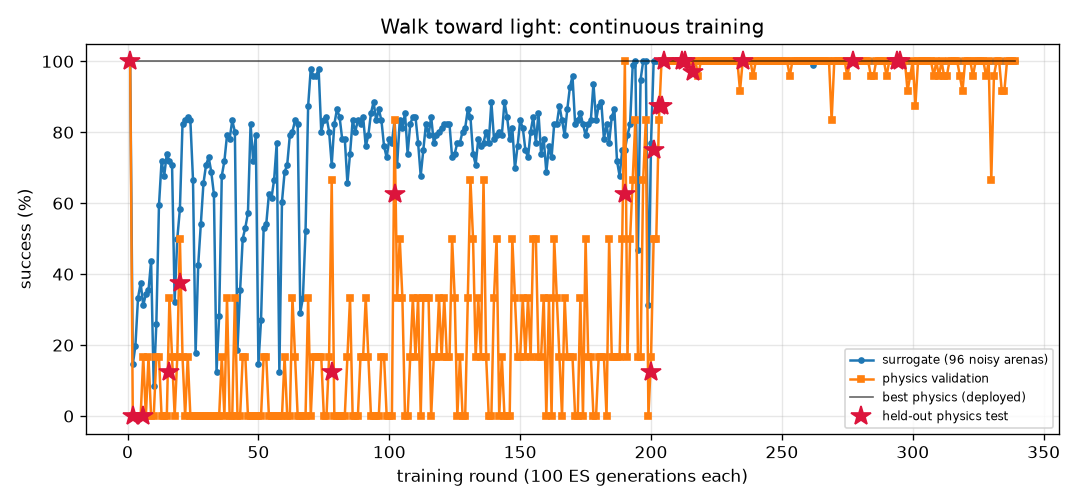
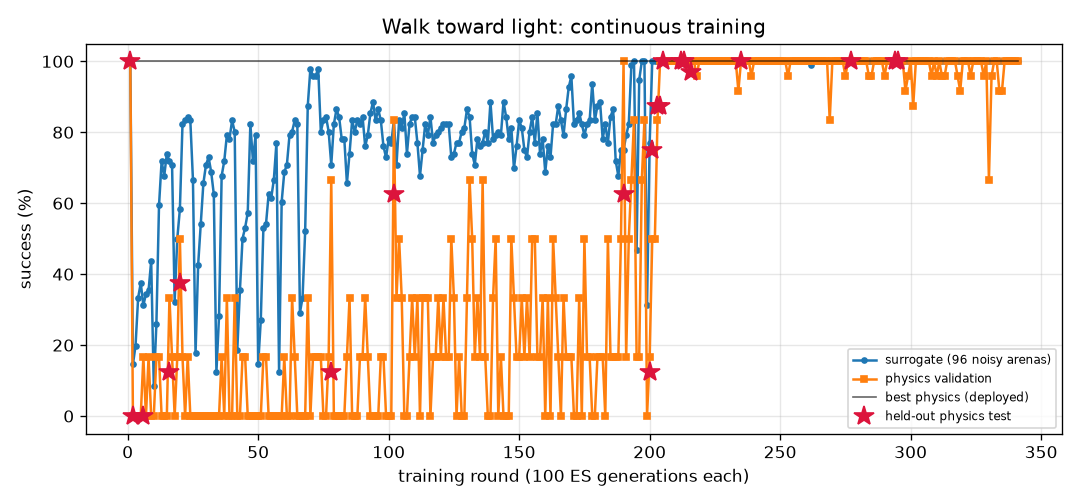
FlyLab: continuous training progress
- walk_forward: optimal, physics val 100% of 24, round 171
- turn: optimal, physics val 100% of 24, round 637
- goto: optimal, physics val 100% of 24, round 156
- odor_seek: optimal, physics val 100% of 24, round 137
- odor_avoid: optimal, physics val 100% of 24, round 609
- light_seek: optimal, physics val 100% of 24, round 341
- light_avoid: optimal, physics val 100% of 24, round 343

diff --git a/projects/09_flylab/training/goto/REPORT.md b/projects/09_flylab/training/goto/REPORT.md
@@ -1,14 +1,14 @@
 # Go to a location (`goto`) — training report
 
-*Auto-generated by `train_brains.py`, last updated 2026-10-24T21:33:08.*
+*Auto-generated by `train_brains.py`, last updated 2026-10-25T01:13:06.*
 
 ![curve](curve.png)
 
 | | |
 |---|---|
-| rounds | 154 |
-| ES generations | 15400 |
-| physics runs | 3582 |
+| rounds | 156 |
+| ES generations | 15600 |
+| physics runs | 3630 |
 | status | **optimal** |
 | best brain | round 80: physics validation **100%** on 24 arenas, surrogate 100% |
 | held-out physics test | **100%** on 32 unseen arenas (95% CI 89%-100%) (errors: [0.36, 0.41, 0.3, 0.45, 0.32, 0.33, 0.33, 0.31, 0.35, 0.36, 0.39, 0.36, 0.28, 0.31, 0.4, 0.39, 0.34, 0.39, 0.3, 0.34, 0.36, 0.36, 0.44, 0.34, 0.3, 0.33, 0.4, 0.33, 0.29, 0.43, 0.43, 0.39]) |
@@ -17,8 +17,6 @@ Physics error per arena: mm from target at the end (< 1.5 and standing still = s
 
 | round | level | gens | sigma | surrogate | physics val | val errors | test | note |
 |---:|---:|---:|---:|---:|---:|---|---:|---|
-| 115 | 3 | 11500 | 0.024 | 100% | 100% | [0.42, 0.42, 0.27, 0.31, 0.29, 0.3, 0.39, 0.38, 0.35, 0.29, 0.28, 0.29, 0.37, 0.32, 0.39, 0.38, 0.43, 0.3, 0.27, 0.35, 0.35, 0.28, 0.4, 0.31] |  |  |
-| 116 | 3 | 11600 | 0.024 | 99% | 100% | [0.71, 0.72, 0.59, 0.6, 0.56, 0.59, 0.71, 0.66, 0.68, 0.56, 0.53, 0.57, 0.69, 0.59, 0.65, 0.65, 0.75, 0.64, 0.53, 0.65, 0.61, 0.55, 0.75, 0.58] |  | restart from best |
 | 117 | 3 | 11700 | 0.024 | 99% | 100% | [0.56, 0.54, 0.44, 0.51, 0.42, 0.48, 0.5, 0.5, 0.57, 0.43, 0.43, 0.5, 0.56, 0.46, 0.47, 0.45, 0.56, 0.49, 0.41, 0.54, 0.44, 0.42, 0.59, 0.53] |  |  |
 | 118 | 3 | 11800 | 0.025 | 100% | 100% | [0.5, 0.51, 0.38, 0.49, 0.38, 0.47, 0.45, 0.36, 0.54, 0.41, 0.43, 0.47, 0.53, 0.44, 0.46, 0.43, 0.48, 0.45, 0.37, 0.51, 0.42, 0.39, 0.54, 0.53] |  |  |
 | 119 | 3 | 11900 | 0.024 | 99% | 100% | [0.65, 0.62, 0.46, 0.57, 0.48, 0.55, 0.6, 0.5, 0.67, 0.48, 0.54, 0.56, 0.66, 0.52, 0.54, 0.54, 0.69, 0.56, 0.48, 0.65, 0.52, 0.49, 0.69, 0.6] |  |  |
@@ -57,3 +55,5 @@ Physics error per arena: mm from target at the end (< 1.5 and standing still = s
 | 152 | 3 | 15200 | 0.025 | 99% | 100% | [0.55, 0.53, 0.37, 0.42, 0.39, 0.41, 0.54, 0.44, 0.47, 0.39, 0.37, 0.43, 0.49, 0.39, 0.42, 0.47, 0.54, 0.44, 0.38, 0.47, 0.44, 0.39, 0.53, 0.41] |  | restart from best |
 | 153 | 3 | 15300 | 0.024 | 100% | 100% | [0.5, 0.47, 0.37, 0.38, 0.35, 0.35, 0.52, 0.38, 0.39, 0.37, 0.35, 0.37, 0.42, 0.34, 0.36, 0.43, 0.47, 0.39, 0.36, 0.42, 0.4, 0.37, 0.44, 0.37] |  |  |
 | 154 | 3 | 15400 | 0.024 | 100% | 100% | [0.41, 0.49, 0.43, 0.34, 0.37, 0.36, 0.41, 0.4, 0.37, 0.34, 0.34, 0.33, 0.37, 0.38, 0.41, 0.44, 0.4, 0.31, 0.33, 0.36, 0.43, 0.31, 0.38, 0.35] |  |  |
+| 155 | 3 | 15500 | 0.024 | 100% | 100% | [0.64, 0.67, 0.63, 0.49, 0.5, 0.51, 0.62, 0.56, 0.54, 0.48, 0.5, 0.48, 0.56, 0.52, 0.6, 0.6, 0.6, 0.49, 0.47, 0.52, 0.59, 0.5, 0.58, 0.49] |  |  |
+| 156 | 3 | 15600 | 0.024 | 99% | 100% | [0.62, 0.52, 0.52, 0.44, 0.39, 0.41, 0.57, 0.55, 0.46, 0.41, 0.4, 0.43, 0.51, 0.36, 0.43, 0.44, 0.57, 0.5, 0.41, 0.5, 0.42, 0.41, 0.53, 0.42] |  | restart from best |

diff --git a/projects/09_flylab/training/light_seek/REPORT.md b/projects/09_flylab/training/light_seek/REPORT.md
@@ -1,14 +1,14 @@
 # Walk toward light (`light_seek`) — training report
 
-*Auto-generated by `train_brains.py`, last updated 2026-10-25T00:36:19.*
+*Auto-generated by `train_brains.py`, last updated 2026-10-25T01:03:02.*
 
 ![curve](curve.png)
 
 | | |
 |---|---|
-| rounds | 339 |
-| ES generations | 33900 |
-| physics runs | 4984 |
+| rounds | 341 |
+| ES generations | 34100 |
+| physics runs | 5032 |
 | status | **optimal** |
 | best brain | round 295: physics validation **100%** on 24 arenas, surrogate 100% |
 | held-out physics test | **100%** on 32 unseen arenas (95% CI 89%-100%) (errors: [0.58, 0.62, 0.61, 0.63, 0.65, 0.65, 0.73, 0.55, 0.64, 0.59, 0.59, 0.58, 0.69, 0.61, 0.59, 0.6, 0.6, 0.63, 0.59, 0.64, 0.61, 1.11, 0.62, 0.58, 0.58, 0.58, 0.67, 0.63, 0.58, 0.66, 0.67, 0.59]) |
@@ -17,8 +17,6 @@ Physics error per arena: mm from target at the end (< 1.5 and standing still = s
 
 | round | level | gens | sigma | surrogate | physics val | val errors | test | note |
 |---:|---:|---:|---:|---:|---:|---|---:|---|
-| 300 | 3 | 30000 | 0.024 | 100% | 100% | [1.21, 0.6, 0.54, 0.56, 0.63, 0.53, 0.57, 0.99, 0.58, 0.58, 0.57, 0.52, 0.67, 0.61, 1.14, 0.61, 0.56, 0.57, 0.55, 0.61, 1.26, 0.59, 0.65, 0.55] |  |  |
-| 301 | 3 | 30100 | 0.024 | 100% | 88% | [1.71, 0.93, 0.7, 0.74, 0.62, 0.94, 0.62, 0.6, 0.74, 0.64, 1.89, 0.61, 0.69, 1.65, 0.7, 0.65, 0.65, 0.73, 0.59, 0.7, 1.43, 0.99, 1.03, 0.99] |  |  |
 | 302 | 3 | 30200 | 0.024 | 100% | 100% | [0.76, 0.79, 0.91, 0.97, 0.82, 0.7, 0.71, 0.78, 0.93, 0.76, 0.79, 0.85, 0.9, 0.79, 0.7, 0.68, 0.71, 0.77, 0.72, 0.69, 0.77, 0.75, 0.85, 0.77] |  |  |
 | 303 | 3 | 30300 | 0.024 | 100% | 100% | [0.74, 0.7, 0.65, 0.65, 0.64, 0.78, 0.75, 0.71, 0.74, 0.69, 0.87, 0.71, 0.77, 0.73, 0.63, 0.7, 0.65, 0.79, 0.67, 0.67, 0.99, 0.71, 0.61, 0.74] |  | restart from best |
 | 304 | 3 | 30400 | 0.024 | 100% | 100% | [0.5, 0.55, 0.56, 0.57, 0.63, 0.93, 0.53, 0.55, 0.56, 0.65, 0.61, 0.54, 0.66, 0.58, 0.51, 0.54, 0.56, 0.54, 0.54, 0.62, 0.56, 0.53, 0.53, 0.94] |  |  |
@@ -57,3 +55,5 @@ Physics error per arena: mm from target at the end (< 1.5 and standing still = s
 | 337 | 3 | 33700 | 0.024 | 100% | 100% | [0.55, 0.5, 0.53, 0.51, 0.7, 0.57, 0.55, 0.58, 0.69, 0.5, 0.58, 0.64, 0.66, 0.49, 0.56, 0.56, 0.59, 0.51, 0.47, 0.7, 0.79, 0.56, 0.54, 0.5] |  |  |
 | 338 | 3 | 33800 | 0.024 | 100% | 100% | [0.55, 0.5, 0.64, 0.92, 0.59, 0.51, 0.57, 0.58, 0.6, 0.57, 0.69, 0.56, 0.5, 0.56, 0.75, 0.57, 0.61, 0.69, 0.58, 0.56, 0.61, 0.63, 0.52, 0.74] |  |  |
 | 339 | 3 | 33900 | 0.024 | 100% | 100% | [0.53, 0.57, 0.65, 0.48, 0.51, 0.5, 0.63, 0.57, 0.63, 0.5, 0.57, 0.95, 0.59, 0.49, 0.53, 0.55, 0.58, 0.5, 0.59, 0.51, 0.53, 0.51, 0.5, 0.51] |  | restart from best |
+| 340 | 3 | 34000 | 0.024 | 100% | 100% | [0.51, 0.53, 0.55, 0.64, 0.53, 0.62, 0.54, 0.54, 1.1, 0.55, 0.68, 0.56, 0.62, 0.56, 0.59, 0.68, 0.67, 0.58, 0.53, 0.54, 0.61, 0.55, 0.59, 0.56] |  |  |
+| 341 | 3 | 34100 | 0.024 | 100% | 100% | [0.61, 0.62, 0.64, 0.65, 0.52, 0.6, 0.53, 0.57, 0.56, 0.51, 0.51, 0.54, 0.63, 0.56, 0.54, 0.54, 0.59, 0.5, 0.56, 0.51, 0.65, 0.61, 0.56, 0.6] |  |  |

diff --git a/projects/09_flylab/training/TRAINING.md b/projects/09_flylab/training/TRAINING.md
@@ -1,6 +1,6 @@
 # FlyLab brains — continuous training log
 
-*Auto-generated by `train_brains.py`, last updated 2026-10-25T00:46:13.*
+*Auto-generated by `train_brains.py`, last updated 2026-10-25T01:13:06.*
 
 Every skill has its own brain and its own training process: surrogate ES rounds, physics validation in MuJoCo, keep-the-best selection, and a held-out physics test that is never used for selection. See each skill's report for its full round-by-round history. Mastery is progressive: passing a level (100% physics validation, >=95% surrogate) doubles the validation and test arena sets; a brain is **optimal** once it holds up at level 3 (>=95% of 24 validation arenas) AND scores >=90% on the 32 held-out test arenas. Test columns show 95% Wilson confidence intervals.
 
@@ -8,8 +8,8 @@ Every skill has its own brain and its own training process: surrogate ES rounds,
 |---|---:|---:|---:|---:|---:|---:|---|
 | [Walk forward](walk_forward/REPORT.md) | 171 | 17100 | 4118 | 100% | 100% of 24 | 100% of 32 (CI 89-100%) | **optimal** |
 | [Turn in place](turn/REPORT.md) | 637 | 63700 | 15534 | 100% | 100% of 24 | 97% of 32 (CI 84-99%) | **optimal** |
-| [Go to a location](goto/REPORT.md) | 154 | 15400 | 3582 | 100% | 100% of 24 | 100% of 32 (CI 89-100%) | **optimal** |
+| [Go to a location](goto/REPORT.md) | 156 | 15600 | 3630 | 100% | 100% of 24 | 100% of 32 (CI 89-100%) | **optimal** |
 | [Find food by smell](odor_seek/REPORT.md) | 137 | 13700 | 2718 | 100% | 100% of 24 | 100% of 32 (CI 89-100%) | **optimal** |
 | [Escape a bad smell](odor_avoid/REPORT.md) | 609 | 60900 | 11922 | 97% | 100% of 24 | 97% of 32 (CI 84-99%) | **optimal** |
-| [Walk toward light](light_seek/REPORT.md) | 339 | 33900 | 4984 | 100% | 100% of 24 | 100% of 32 (CI 89-100%) | **optimal** |
+| [Walk toward light](light_seek/REPORT.md) | 341 | 34100 | 5032 | 100% | 100% of 24 | 100% of 32 (CI 89-100%) | **optimal** |
 | [Hide from light](light_avoid/REPORT.md) | 343 | 34300 | 8504 | 100% | 100% of 24 | 100% of 32 (CI 89-100%) | **optimal** |
